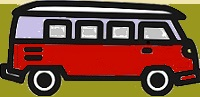
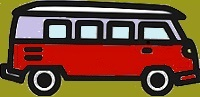
BeachVan

diff --git a/styles/styles.css b/styles/styles.css
@@ -27,12 +27,18 @@ background-repeat: repeat-x;
 animation:moveRight 8s linear infinite;
 
 
+
+
+
 }
 
 .bus{
 position: absolute;
-bottom: 1%;
+bottom: 0%;
 left:10%;
+animation: suspension 1s linear infinite;
+
+
 }
 
 @keyframes moveRight{
@@ -40,21 +46,26 @@ left:10%;
 }
 
 
-
-
-
-
-
-
-*{
-
-    margin:0;
-    padding:0;
-    box-sizing: border-box;
+@keyframes suspension{
+100%{
+transform:translateY(-1px);
 }
-#portrait{
-height: 70px;
-width: 70px;
-border-radius: 70%;
-object-fit:cover;
+50%{
+    transform:translateY(2px);
+    }
+    0%{
+        transform:translateY(-1px);
+        }
 }
+
+.moveRight{
+    animation:moveRight 8s linear infinite;
+
+}
+
+.suspension{
+    animation: suspension 1s linear infinite;
+}
+
+
+

diff --git a/Index.html b/Index.html
@@ -5,8 +5,8 @@
 <head>
     <meta charset="UTF-8">
     <meta name="viewport" content="width=device-width, initial-scale=1.0">
-    <meta http-equiv="X-UA-Compatible" content="ie=chrome">
-    <title>Hooper</title>
+    <meta http-equiv="X-UA-Compatible" content="ie=edge">
+    <title>Beach-Van</title>
     <link rel="stylesheet" href="styles/styles.css">
 </head>
 <body>
@@ -24,6 +24,8 @@
         </div>
     </div>
 
+    <script src="https://code.jquery.com/jquery-3.6.0.min.js"></script>
+    <script src="magic.js"></script>
 
 </body>
 </html>

diff --git a/styles/magic.js b/styles/magic.js
@@ -1,0 +1,17 @@
+$(document).ready(function(){
+
+$surface=$('.surface');
+$bus = $('.bus');
+
+$(document).on('keypress',function(e){
+    if(e.which == 13){
+        $($surface).toggleClass('moveRight');
+        $($bus).toggleClass('suspension');
+           }
+})
+
+
+
+
+
+});
